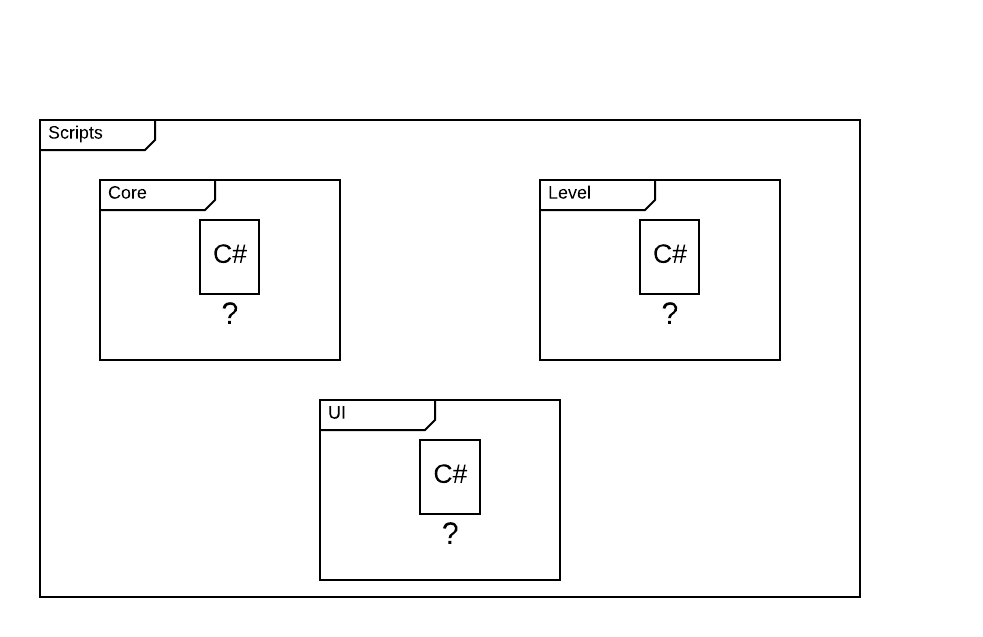
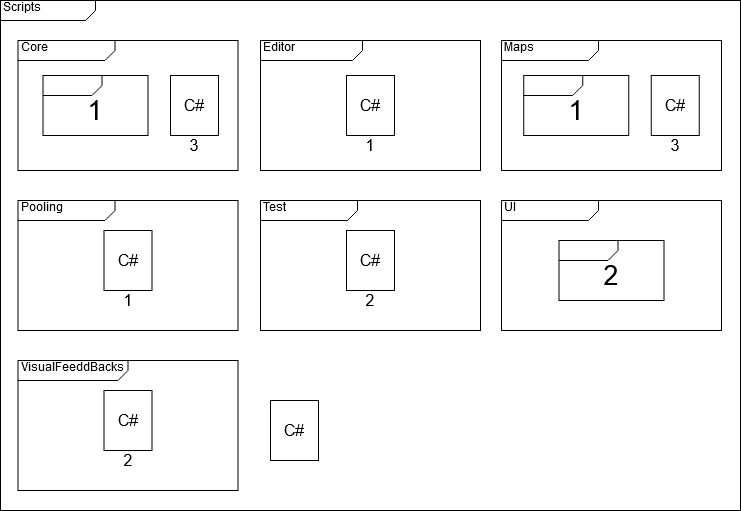
[UPDATE] folders diagrams

diff --git a/Documentations/TDD.md b/Documentations/TDD.md
@@ -26,9 +26,19 @@
 	* *Diagram*
 * **B** *- Project structur*
 	* *Legend*
-	* *Diagrams*
-		* *Assets*
+	* *Assets*
+		* *Animators*
+		* *Clips*
+			* *Feedbacks*
+			* *Square*
+		* *Scenes*
 		* *Scripts*
+			* *Core*
+			* *Maps*
+			* *UI*
+				* *ButtonListeners*
+				* *Screens*
+		* *Sprites*
 * **C** *- Namespaces*
 * **D** *- Coding rules*
 	* *Using*
@@ -75,6 +85,7 @@
 | V0.5 | 05/10/2020 | Update regions part and add constants region in it		  | Add rules for constants regions and update regions for allow subregions											 | Matthias de Toffoli |
 | V0.6 | 05/16/2020 | Update Namespace part, and the coding rules				  | Add an exception for Editor folder in namespace part, and change some syntaxes in coding rules					 | Matthias de Toffoli |
 | V1.0 | 10/25/2020 | Update the communication diagram							  | Update the communication diagram for match with the current project												 | Matthias de Toffoli |
+| V1.1 | 10/31/2020 | Update the Folders diagrams								  | Update the folders diagram for match with the current project and change the unity version						 | Matthias de Toffoli |
 
 ## About it
 ### Why this ?
@@ -110,7 +121,7 @@ Touch only
 ### Research
 No tool researchs was make for this project beause the goal is to improve my skills with Unity.
 ### Software
-Unity 3D 2019
+Unity 3D 2020.1.0f1
 ### Language
 C# with .Net 4.6
 ### Libraries
@@ -127,11 +138,34 @@ Will use managers, they will manage their part and single objects will be manage
 ### Project structur
 #### Legend
 ![Legend of the folders diagram](./pictures/TDD/Folders/Legend.png "Legend")
-#### Diagrams
-##### Assets
+#### Assets
 ![Assets folder diagram](./pictures/TDD/Folders/Assets.png "Assets folder")
+##### Animations
+![Animations folder diagram](./pictures/TDD/Folders/Animations.png "Animations folder")
+###### Animators
+![Animators folder diagram](./pictures/TDD/Folders/Animators.png "Animators folder")
+###### Clips
+![Clips folder diagram](./pictures/TDD/Folders/Clips.png "Clips folder")
+####### Feedbacks
+![Feedbacks folder diagram](./pictures/TDD/Folders/Clips_Feedbacks.png "Clips/Feedbacks folder")
+####### Square
+![Square folder diagram](./pictures/TDD/Folders/Clips_Square.png "Clips/Square folder")
+##### Scenes
+![Scenes folder diagram](./pictures/TDD/Folders/Scenes.png "Scenes folder")
 ##### Scripts
 ![Scripts folder diagram](./pictures/TDD/Folders/Scripts.png "Scripts folder")
+###### Core
+![Core folder diagram](./pictures/TDD/Folders/Core.png "Core folder")
+###### Maps
+![Maps folder diagram](./pictures/TDD/Folders/Maps.png "Maps folder")
+###### UI
+![UI folder diagram](./pictures/TDD/Folders/UI.png "UI folder")
+####### ButtonListeners
+![ButtonListeners folder diagram](./pictures/TDD/Folders/UI_ButtonListeners.png "UI/ButtonListeners folder")
+####### Screens
+![Screens folder diagram](./pictures/TDD/Folders/UI_Screens.png "UI/Screens folder")
+##### Sprites
+![Sprites folder diagram](./pictures/TDD/Folders/Sprites.png "Sprites folder")
 ### Namespaces
 ![Namespaces diagram](./pictures/TDD/Namespaces.png "Namespaces")
 ### Coding rules
